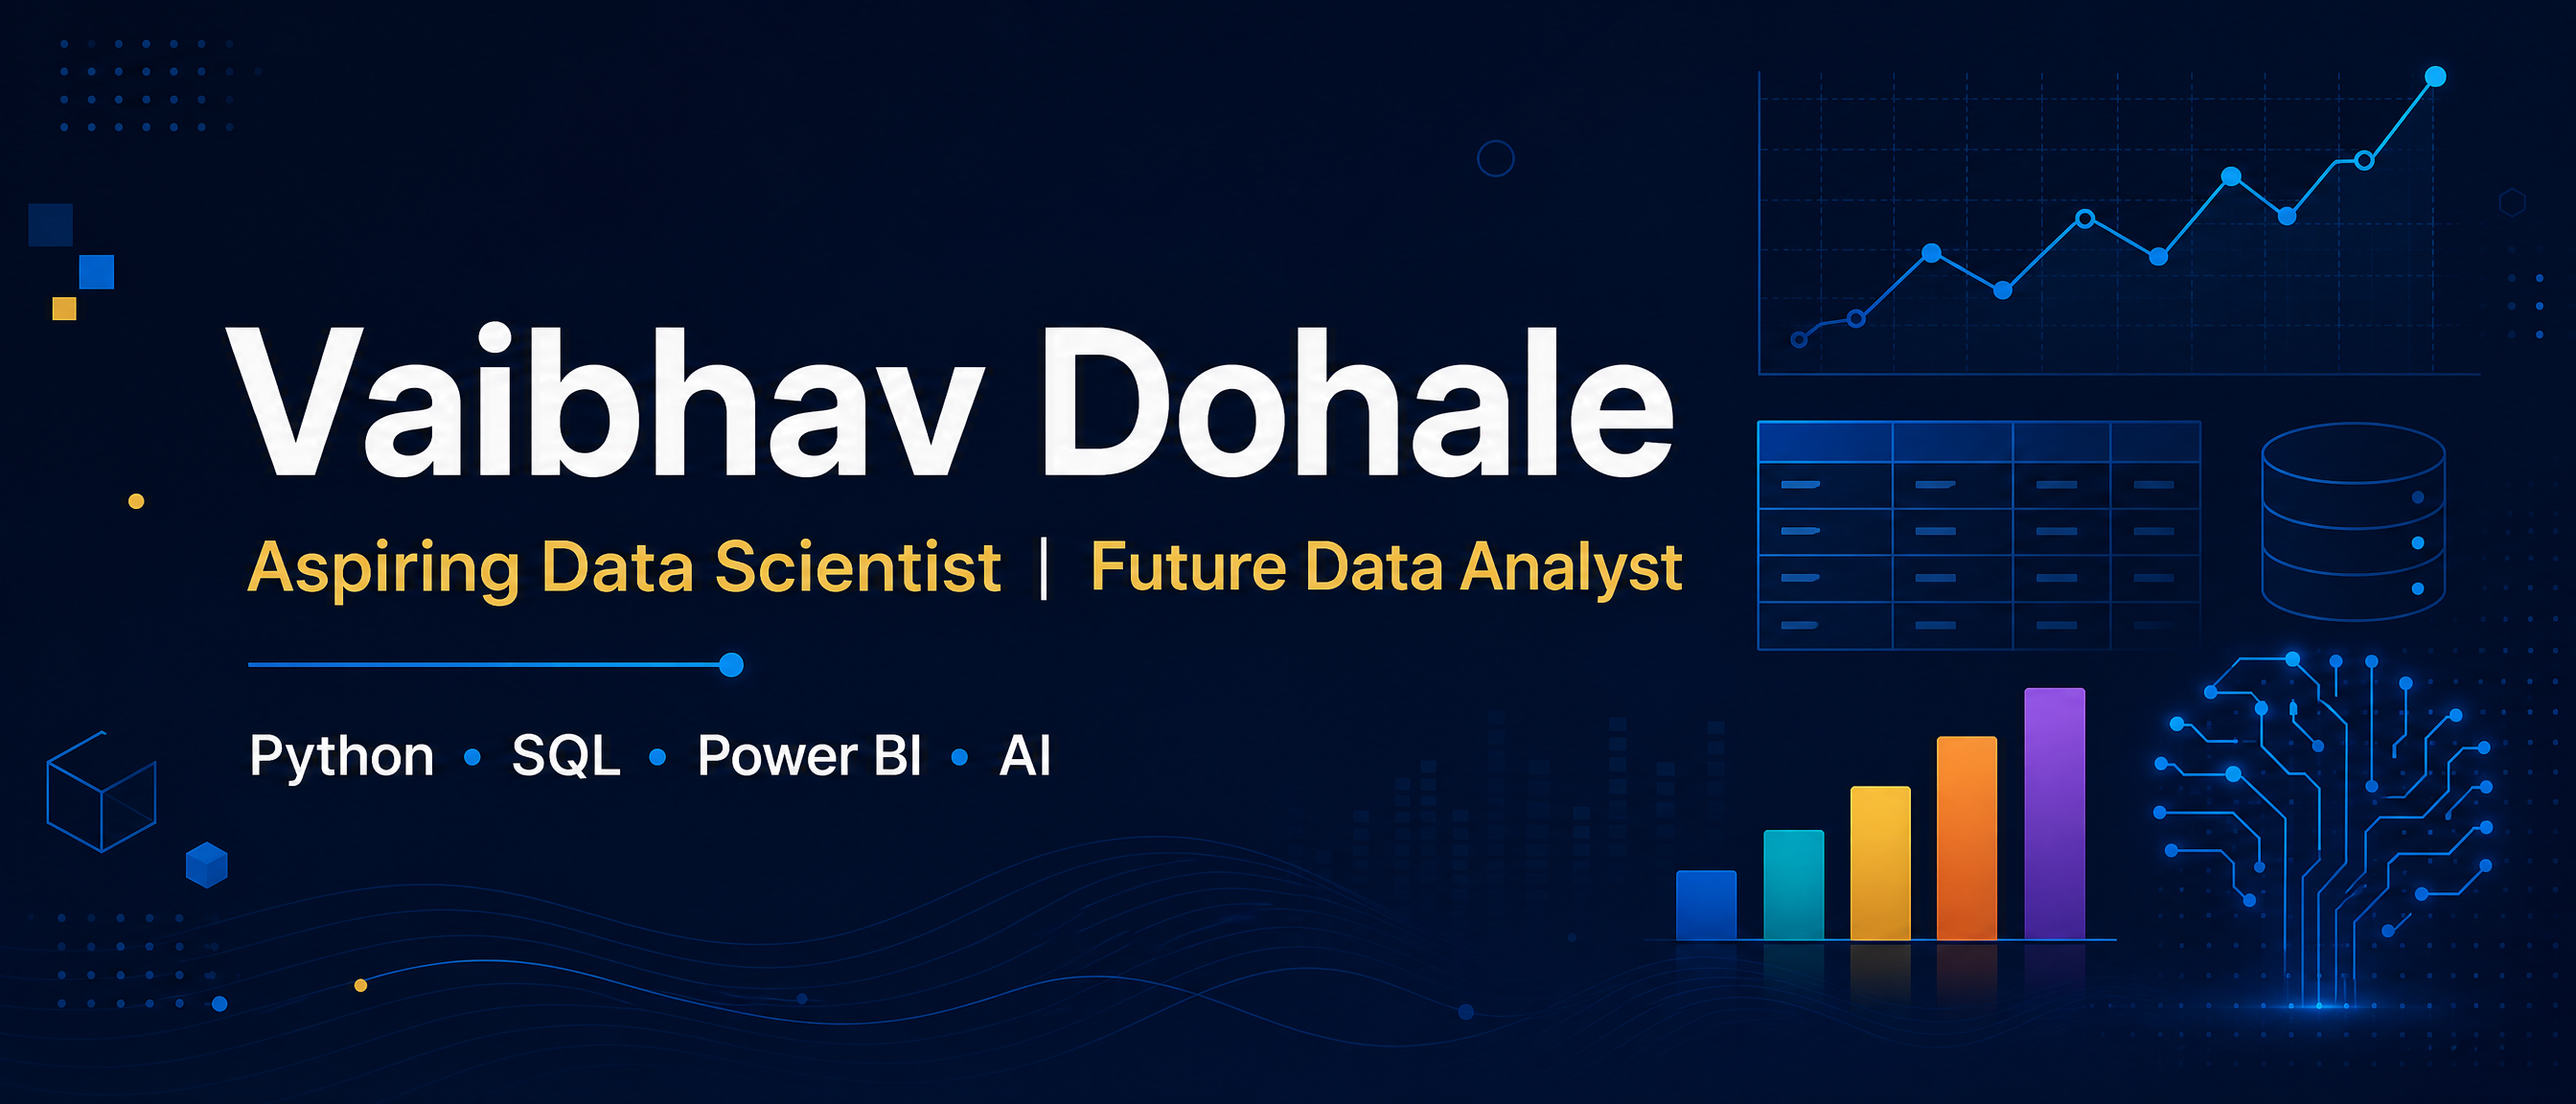
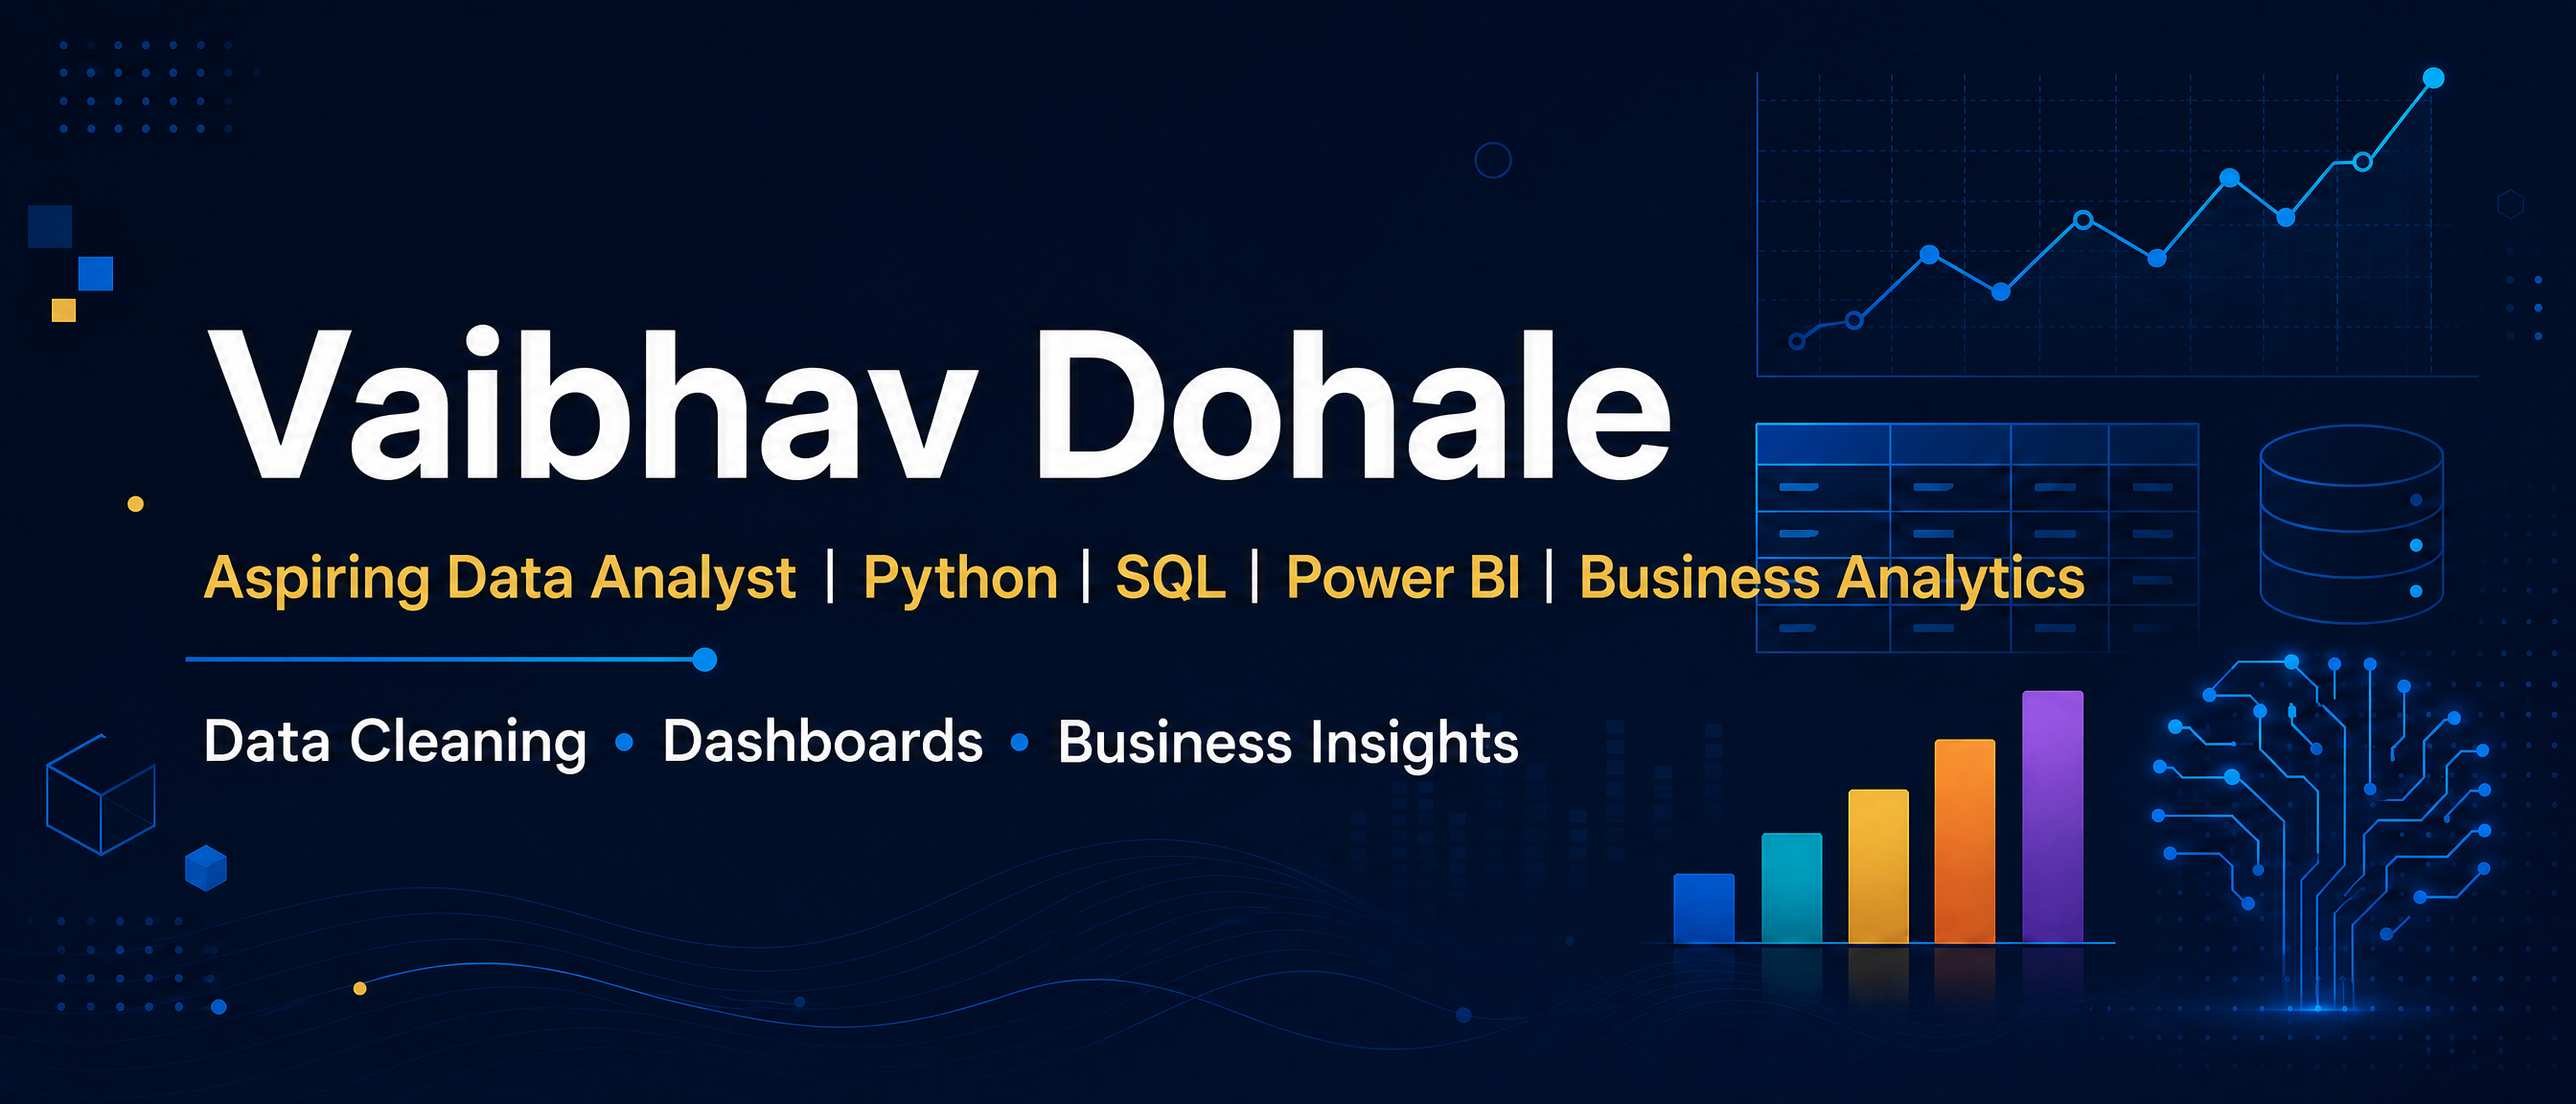
Focus profile on data analyst opportunities

diff --git a/README.md b/README.md
@@ -2,62 +2,52 @@
 
 # Hi, I'm Vaibhav Dohale
 
-### Aspiring Data Scientist | Continuous Learner | On the Path to Becoming a Data Analyst
+### Aspiring Data Analyst | Python | SQL | Power BI | Business Analytics
 
-I’m an aspiring data professional building my skills in data analysis, programming, visualization, and AI-powered productivity. I enjoy learning by creating practical projects and using technology to automate repetitive work.
+I’m an aspiring data analyst building practical skills in Python, SQL, Power BI, statistics, and business analytics. I enjoy turning raw data into clear insights, reports, dashboards, and recommendations that support better decisions.
 
-## Skills
+## What I Work With
 
-- Python
-- SQL
-- Power BI
-- Data Analysis and Visualization
-- Artificial Intelligence and Workflow Automation
+- **Data analysis:** Python, Pandas, data cleaning, exploratory analysis, and statistics
+- **Business analytics:** revenue trends, customer behavior, retention, segmentation, and KPIs
+- **SQL:** aggregations, joins, date analysis, business questions, and reporting workflows
+- **Visualization:** Power BI, Matplotlib, and Seaborn
+- **Workflow automation:** using AI tools to reduce repetitive work and improve productivity
 
-## Tech Stack & Tools
+## Tech Stack
 
 <p align="left">
   <img src="https://img.shields.io/badge/Python-3776AB?style=for-the-badge&logo=python&logoColor=white" alt="Python" />
   <img src="https://img.shields.io/badge/SQL-4479A1?style=for-the-badge&logo=mysql&logoColor=white" alt="SQL" />
   <img src="https://img.shields.io/badge/Power%20BI-F2C811?style=for-the-badge&logo=powerbi&logoColor=black" alt="Power BI" />
-  <img src="https://img.shields.io/badge/AI-412991?style=for-the-badge&logo=openai&logoColor=white" alt="Artificial Intelligence" />
-  <img src="https://img.shields.io/badge/ChatGPT-74AA9C?style=for-the-badge&logo=openai&logoColor=white" alt="ChatGPT" />
-  <img src="https://img.shields.io/badge/Claude-D97757?style=for-the-badge&logo=anthropic&logoColor=white" alt="Claude" />
-  <img src="https://img.shields.io/badge/Manus-111827?style=for-the-badge&logoColor=white" alt="Manus" />
+  <img src="https://img.shields.io/badge/Pandas-150458?style=for-the-badge&logo=pandas&logoColor=white" alt="Pandas" />
+  <img src="https://img.shields.io/badge/Matplotlib-11557C?style=for-the-badge&logo=python&logoColor=white" alt="Matplotlib" />
+  <img src="https://img.shields.io/badge/Seaborn-4C72B0?style=for-the-badge&logo=python&logoColor=white" alt="Seaborn" />
 </p>
 
-## AI Tools
+## Featured Projects
 
-ChatGPT • Claude • Manus
+### 1. Sales Data Analysis with Python
 
-## Featured Project
+**Business problem:** Understand revenue performance, customer value, retention, product economics, and cancellations from retail transaction data.
 
-### Cupid Detective
-A Python-based interactive detective game that turns relationship-themed answers into a playful compatibility investigation. Built as an entertainment project, it demonstrates practical software development, data processing, reporting, and testing skills.
+**Tools:** Python, Pandas, Matplotlib, Seaborn, GitHub Actions.
 
-**Highlights:**
+**Highlights:** RFM customer segmentation, cohort retention, average order value, cancellation analysis, merchandise economics, generated reports, and automated verification.
 
-- Rule-based scoring, compatibility ratings, risk analysis, badges, and suggestions.
-- Persistent case history with browsing, searching, and statistics dashboards.
-- Text and PDF report generation for every investigation.
-- Validated menu input and automated regression and integration tests.
-
-**Built with:** Python, ReportLab, file-based data storage, and automated testing.
-
-[View the Cupid Detective repository](https://github.com/vaibhavdohale759-oss/Cupid-Detective)
-
-### Sales Data Analysis with Python
-A reproducible retail analytics project using Pandas, Matplotlib, and Seaborn to clean transaction data, analyze revenue trends, compare countries and products, and produce business insights.
+**Result:** Analyzed **530,104 valid sale line items, 19,960 orders, and 4,338 customers** to produce business-focused insights and recommendations.
 
 [View the Sales Data Analysis repository](https://github.com/vaibhavdohale759-oss/sales-data-analysis)
 
+### 2. Cupid Detective
+
+A modular Python application demonstrating scoring logic, input validation, persistent history, statistics, PDF reporting, case search, and automated tests. This project highlights software development and Python problem-solving ability.
+
+[View the Cupid Detective repository](https://github.com/vaibhavdohale759-oss/Cupid-Detective)
+
 ## Currently Learning
 
-I’m currently strengthening my foundation in **Data Analytics**, **Statistics**, **Pandas**, and **Machine Learning** as I continue working toward a career as a data analyst and aspiring data scientist.
-
-## Current Focus
-
-I’m currently developing my skills in data analytics and working toward becoming a data analyst, while continuing to explore data science, AI, and workflow automation.
+I’m currently strengthening my skills in **SQL business analysis**, **Power BI dashboard design**, **statistics**, **customer analytics**, and **business communication**. My goal is to connect technical analysis with clear recommendations and measurable business questions.
 
 ## GitHub Stats
 
@@ -68,7 +58,7 @@ I’m currently developing my skills in data analytics and working toward becomi
 
 ## Open to Opportunities
 
-I’m open to **internships**, **entry-level data analyst opportunities**, collaborations, and practical learning projects where I can apply my skills in Python, SQL, Power BI, data analysis, and AI-powered workflow automation.
+I’m open to **Data Analyst internships**, **trainee and entry-level Data Analyst roles**, collaborations, and practical business analytics projects where I can apply Python, SQL, Power BI, and data storytelling.
 
 ## Connect
 
